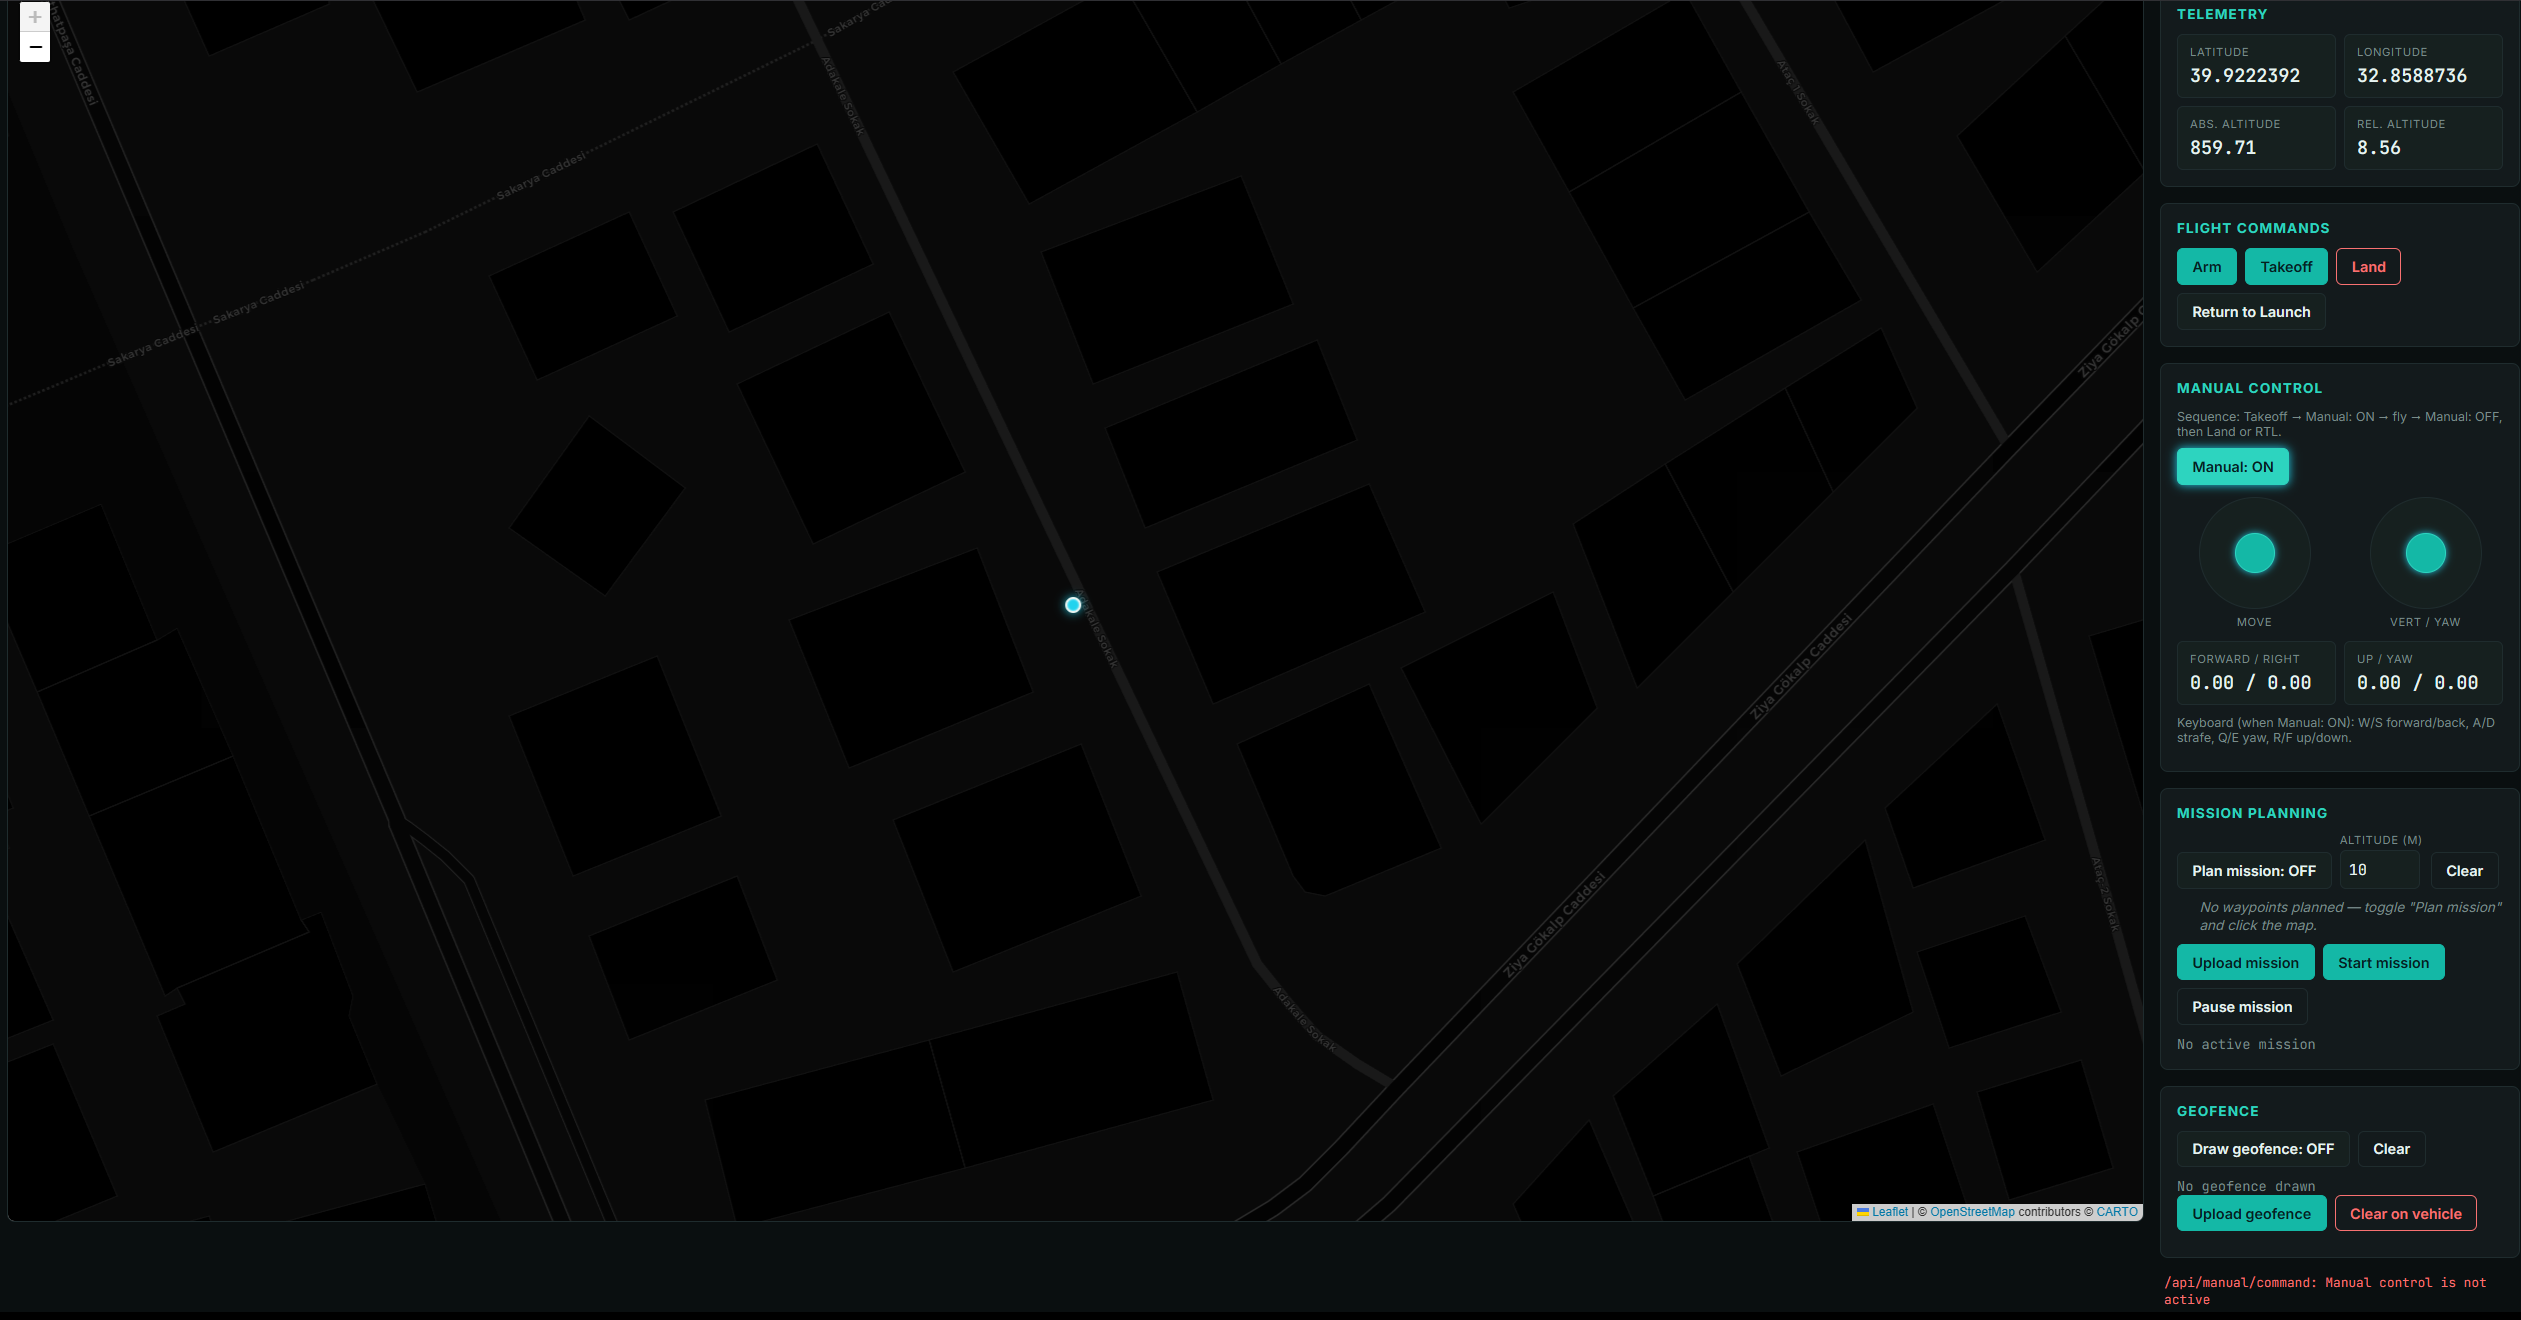
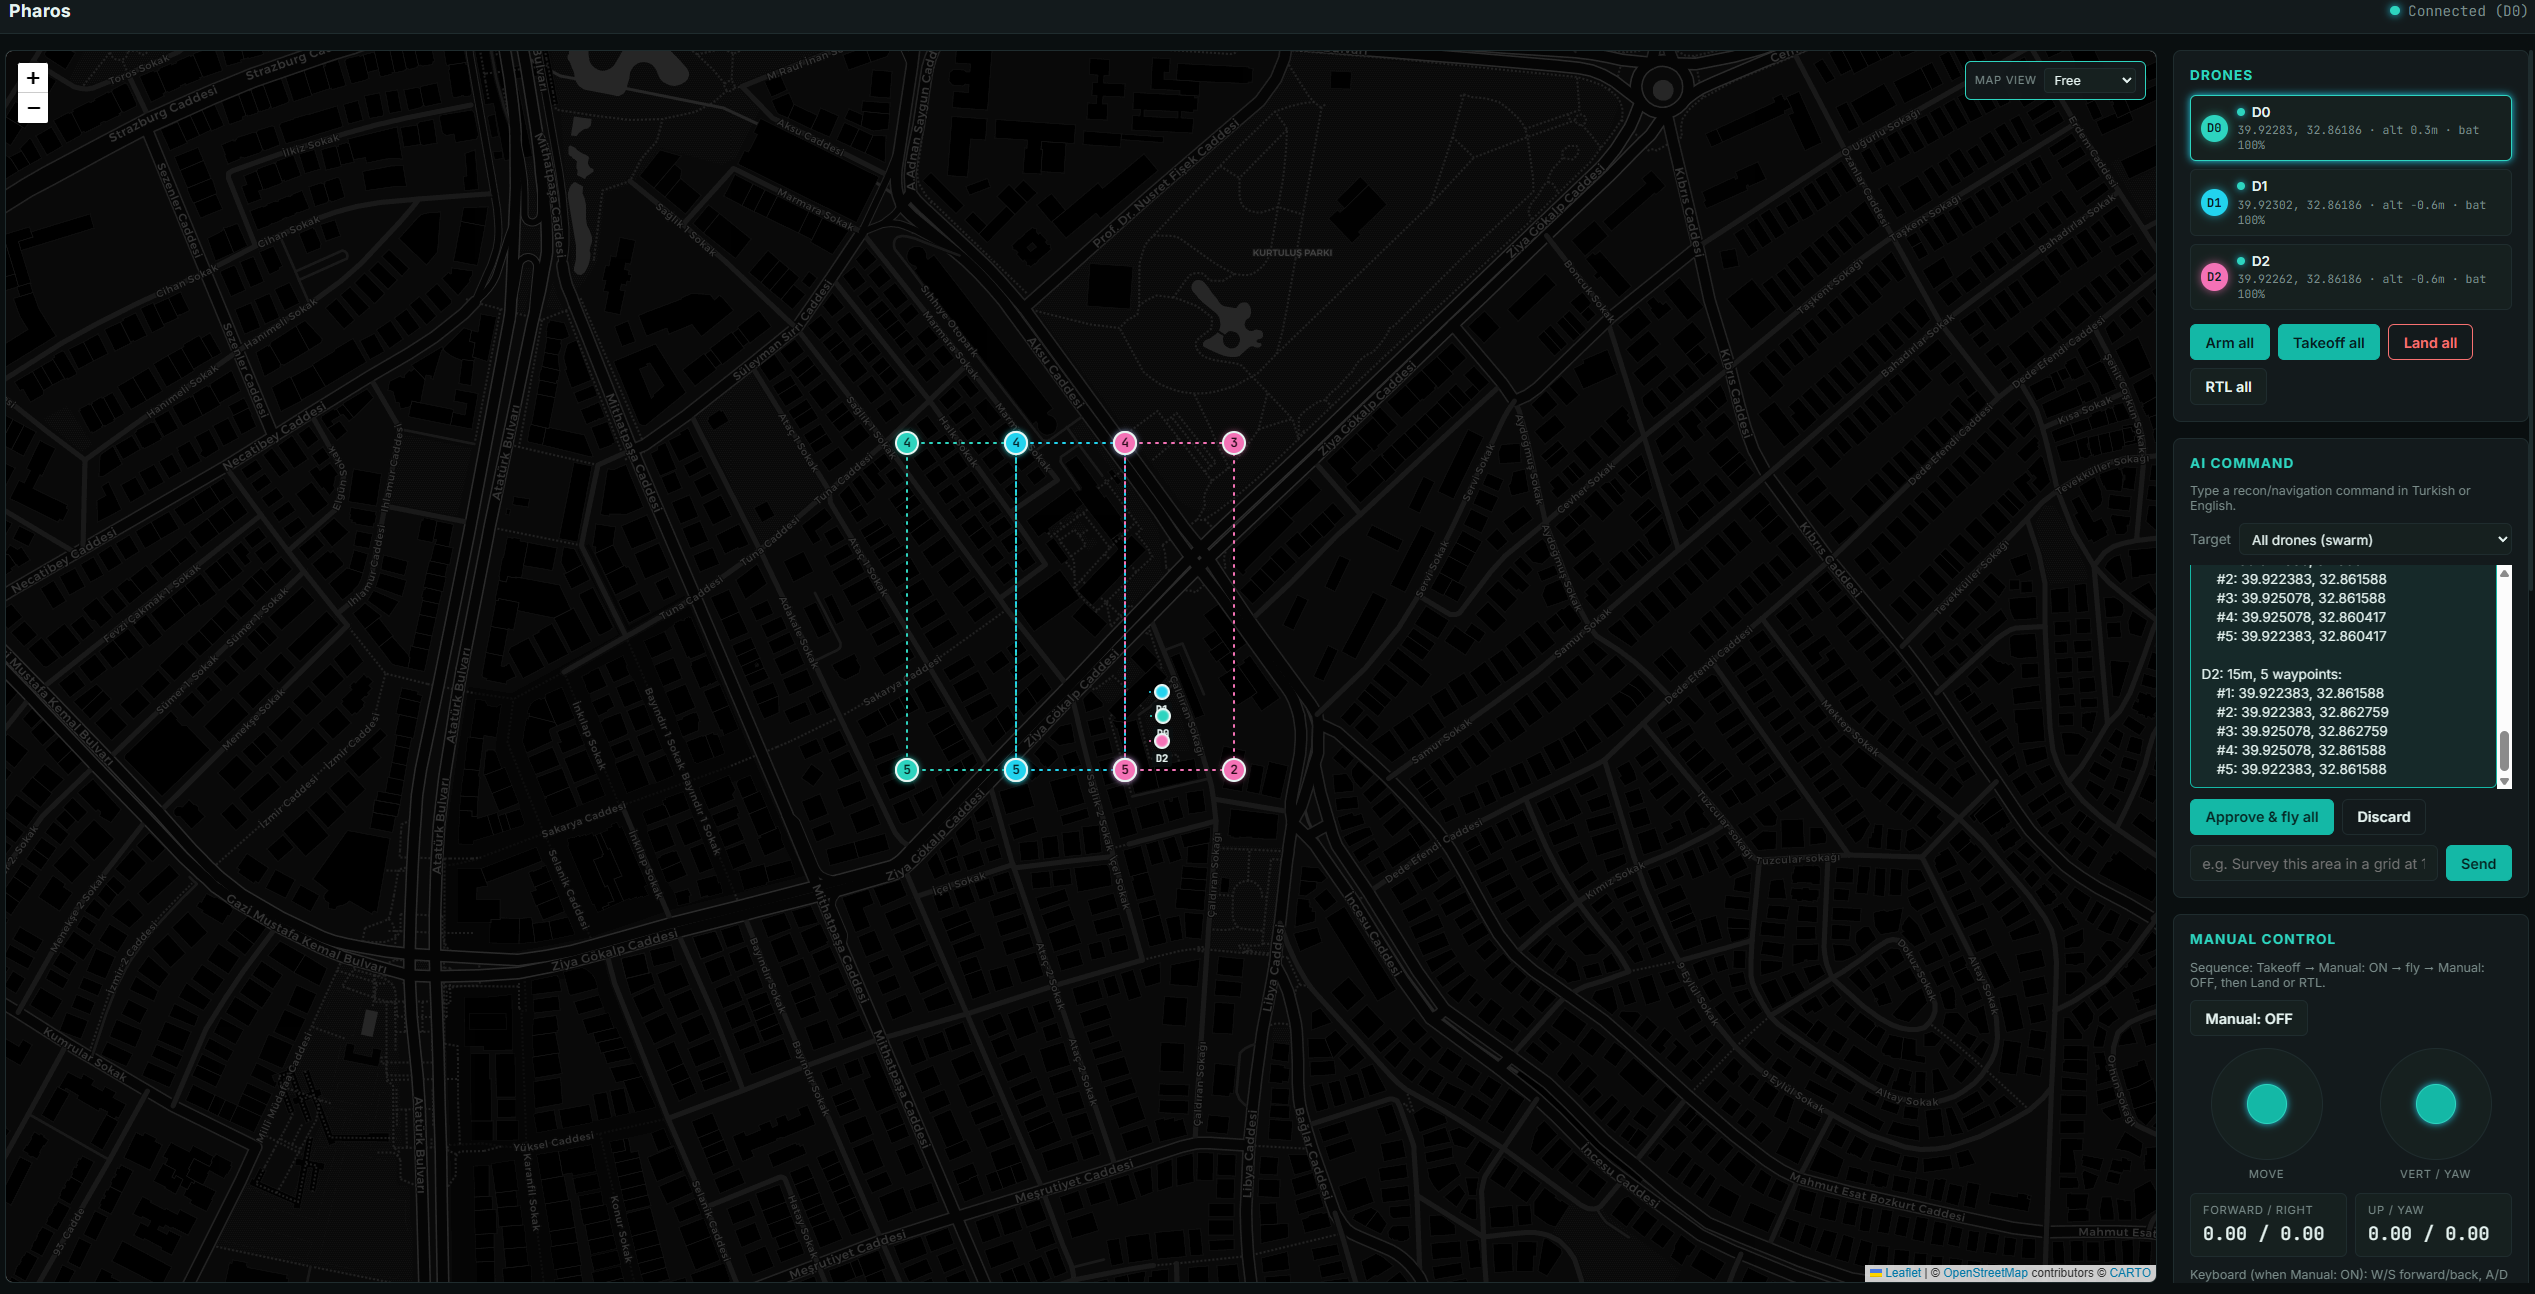
docs: rewrite README with current features, screenshots; add httpx to requirements

diff --git a/README.md b/README.md
@@ -1,120 +1,151 @@
 <p align="center">
-  <img src="docs/logo.png" alt="Pharos logo" width="220">
+  <img src="docs/logo.png" alt="Pharos logo" width="180">
 </p>
 
 <h1 align="center">Pharos</h1>
 
 <p align="center">
-  A web-based ground control station for PX4 drones — live telemetry, manual
-  flight, mission planning, and geofencing from a browser.
+  A web-based Ground Control Station for PX4 drones — live multi-drone telemetry,
+  manual flight, autonomous mission planning, geofencing, and a natural-language
+  AI command layer with mandatory human approval, running fully in simulation.
 </p>
 
-<p align="center">
-  <img src="docs/screenshot-dashboard.png" alt="Pharos dashboard screenshot" width="100%">
-</p>
+---
 
-<p align="center"><em>Live dashboard: dark map with a tracked drone position, telemetry readout, flight commands, manual control joysticks, mission planning, and geofencing — all in one view.</em></p>
+![Swarm scan preview](docs/screenshot-swarm.png)
+*AI-planned swarm scan: three drones assigned non-overlapping lawnmower sectors over a named location, previewed on the map before the operator approves and launches.*
 
 ---
 
 ## Features
 
-**Live telemetry**
-- Real-time position, altitude, and connection status streamed over a WebSocket
-- Dark-themed live map (Leaflet) with a following drone marker and flight trail
+### Live telemetry and map
 
-**Flight commands**
-- Arm, Takeoff, Land, and Return to Launch from the dashboard
+- Position, altitude (absolute and relative), heading, ground speed, and battery streamed in real time over a WebSocket connection
+- Dark Leaflet map (CARTO dark tiles) with per-drone markers and color-coded flight trails for all three drones simultaneously
+- Rolling telemetry charts: relative altitude, ground speed, and battery percentage (Chart.js)
+- Five map-follow modes via a floating overlay control: **Follow D0 / D1 / D2** (pan only, no zoom change), **Follow all** (auto-fits all drones in view with `fitBounds`, throttled to 1 Hz), and **Free** (map stays exactly where you leave it)
 
-**Manual flight control**
-- On-screen joysticks (move + vertical/yaw) and keyboard control (W/A/S/D, Q/E, R/F)
-- Implemented via MAVSDK offboard velocity setpoints, streamed continuously to PX4
-- Move joystick is map-relative (north/east), automatically rotated into the
-  drone's body frame using its live compass heading
+### Multi-drone swarm
 
-**Autonomous mission planning**
-- Click waypoints directly on the map to build a route
-- Upload and run the mission on PX4, with live "Waypoint X / Y" progress
-  reported back to the dashboard
+- Three simultaneous PX4 SITL instances (D0, D1, D2) connected over separate UDP ports (14540/14541/14542)
+- Per-drone telemetry cards with status indicators; click any drone to select it for single-drone panels
+- Swarm-level commands: Arm all, Takeoff all, Land all, RTL all (fan-out to all drones in one click)
 
-**Geofencing**
+### AI command layer
+
+- Type a reconnaissance or navigation task in Turkish or English; the backend sends it to the DeepSeek LLM
+- For swarm tasks, the LLM returns a high-level area specification (pattern, size, altitude, optional place name); Python then deterministically divides the area into non-overlapping vertical strips — one per drone — and generates a boustrophedon (lawnmower) scan pattern for each strip, guaranteeing no sector overlap by construction
+- For single-drone tasks, the LLM generates a structured waypoint route
+- Named locations (e.g. "Kurtulus Parki Ankara") are resolved to GPS coordinates via OpenStreetMap Nominatim before sector allocation, so scans cover the place you actually named
+- The proposed plan is drawn on the map as a preview. **No drone moves until the operator explicitly clicks "Approve & fly"** — the approval step is mandatory and cannot be bypassed from the UI
+
+### Manual flight control
+
+- On-screen joysticks (move + vertical/yaw) and full keyboard control: W/S forward/back, A/D strafe, Q/E yaw, R/F up/down
+- Implemented via MAVSDK offboard velocity setpoints, sent at 10 Hz while active
+- The move joystick is map-relative (up = north, right = east), automatically rotated into the drone's body frame using its live compass heading
+
+### Autonomous mission planning
+
+- Click waypoints directly on the map to build a route; set flight altitude, upload to PX4, start/pause
+- Live mission progress ("Waypoint 3 / 7") reported back to the dashboard and highlighted on the map
+
+### Geofence
+
 - Draw an inclusion-boundary polygon on the map
-- Upload it to PX4 as an enforced geofence (breach action: Hold)
+- Upload it to PX4 as an enforced geofence; the vehicle will hold at the boundary if breached
 - Clear the fence from the vehicle at any time
+
+---
+
+## Safety boundary
+
+The AI command layer is scoped exclusively to **navigation and reconnaissance tasks**: area scans, waypoint routes, patrol loops, and loiter. Both the single-drone and swarm system prompts explicitly prohibit and will refuse any request related to weapons, targeting, strikes, offensive interception, or engagement of other aircraft or vehicles. A refused request returns a structured error explaining what was rejected; no plan is generated and no drone moves.
+
+This constraint is enforced at the system-prompt level for every API call and is not configurable at runtime.
 
 ---
 
 ## Architecture
 
 ```
-PX4 SITL (firmware)
-      │  MAVLink / UDP (14540)
+PX4 SITL × 3 (SIH firmware, headless)
+      │  MAVLink / UDP  (ports 14540 · 14541 · 14542)
       ▼
-MAVSDK-Python  ──  shared connection
+MAVSDK-Python  (one connection + telemetry/command tasks per drone)
       │
       ▼
-FastAPI backend (server.py)
-      │  WebSocket (telemetry/state)  +  REST (commands)
+FastAPI backend  (server.py)
+      │  WebSocket ── telemetry broadcast (all drones, tagged by drone_id)
+      │  REST ── /api/<drone_id>/...  and  /api/all/...  (commands)
+      │  REST ── /api/plan  (AI mission planning, swarm sector allocation)
       ▼
-Browser frontend (Leaflet + vanilla JS)
+Browser frontend  (vanilla JS + Leaflet)
+      │  DeepSeek API  (natural-language → area spec / waypoint plan)
+      │  Nominatim     (place name → GPS coordinates)
 ```
 
-The backend maintains a MAVSDK connection per drone (3 by default, ports
-14540/14541/14542) and runs five background tasks per drone (telemetry,
-mission progress, heading, ground speed, battery), broadcasting each drone's
-state — tagged with a `drone_id` — to all connected browser clients over a
-single WebSocket. Flight commands, mission uploads, geofence uploads, and
-manual control setpoints are sent as REST calls to `/api/<drone_id>/...`,
-translating directly into MAVSDK action/mission/offboard/geofence calls.
-`/api/all/...` endpoints fan a command out to every connected drone. The
-frontend shows every drone on the map; single-drone panels (telemetry,
-charts, manual control, mission planning, geofence) operate on whichever
-drone is currently selected in the Drones panel.
+The backend runs five background telemetry tasks per drone and broadcasts each drone's state — tagged with `drone_id` — to all WebSocket clients. Flight commands, mission uploads, geofence operations, and manual control setpoints are sent as REST calls and translate directly to MAVSDK calls. The `/api/all/...` endpoints fan a command out to every drone and collect per-drone results.
 
 ---
 
 ## Tech stack
 
-- **Backend:** Python, [FastAPI](https://fastapi.tiangolo.com/), [MAVSDK-Python](https://mavsdk.mavlink.io/)
-- **Realtime transport:** WebSocket (telemetry) + REST (commands)
-- **Frontend:** Vanilla JavaScript, [Leaflet](https://leafletjs.com/) (dark CARTO tiles)
-- **Simulation:** [PX4 SITL](https://docs.px4.io/main/en/simulation/) (SIH backend)
+| Layer | Technology |
+|---|---|
+| Simulation | PX4 SITL (SIH firmware) |
+| Drone SDK | MAVSDK-Python |
+| Backend | Python, FastAPI, uvicorn |
+| Realtime transport | WebSocket (telemetry) + REST (commands) |
+| Frontend | Vanilla JavaScript, Leaflet (CARTO dark tiles) |
+| Charts | Chart.js |
+| AI planner | DeepSeek LLM (via OpenAI-compatible API) |
+| Geocoding | OpenStreetMap Nominatim |
 
 ---
 
 ## Getting started
 
-Targets **PX4 SITL** (simulation) — no real hardware required. Developed and
-tested on **WSL2 / Ubuntu**.
+Developed and tested on **WSL2 / Ubuntu**. Requires a pre-built PX4-Autopilot tree and a DeepSeek API key.
 
-### 1. Backend
+### 1. Clone and install
 
 ```bash
-cd ~/pharos
+git clone https://github.com/efekrkyn/pharos.git
+cd pharos
 python3 -m venv .venv
 source .venv/bin/activate
 pip install -r requirements.txt
 ```
 
-### 2. PX4 SITL
+### 2. Configure the API key
 
-Clone and build [PX4-Autopilot](https://github.com/PX4/PX4-Autopilot) following
-the [official setup guide](https://docs.px4.io/main/en/dev_setup/dev_env_linux_ubuntu.html).
-Then run the headless SIH simulator (no Gazebo/Java required), set to start at
-TED University, Ankara — matching the dashboard's default map view:
+```bash
+cp .env.example .env
+# Edit .env and set DEEPSEEK_API_KEY=<your key>
+```
+
+### 3. Build PX4 SITL (first time only)
+
+Clone and build [PX4-Autopilot](https://github.com/PX4/PX4-Autopilot) following the
+[official Ubuntu setup guide](https://docs.px4.io/main/en/dev_setup/dev_env_linux_ubuntu.html),
+then build the SIH target:
 
 ```bash
 cd ~/PX4-Autopilot
-PX4_HOME_LAT=39.9228214 PX4_HOME_LON=32.8618589 PX4_HOME_ALT=850 \
-  make px4_sitl sihsim_quadx
+make px4_sitl sihsim_quadx
 ```
 
-PX4 SITL streams MAVLink over UDP to `localhost:14540`, which the backend
-connects to automatically.
+### 4. Launch the three SITL instances
 
-### 3. Run Pharos
+```bash
+~/pharos/scripts/start_swarm.sh
+```
 
-With PX4 SITL running, in a second terminal:
+This starts three headless PX4 processes (D0 at the default home position, D1 and D2 with small latitude offsets so they don't overlap) and logs to `scripts/logs/`. Wait for EKF and GPS lock in the logs before proceeding. Stop everything with `scripts/stop_swarm.sh`.
+
+### 5. Start the backend
 
 ```bash
 cd ~/pharos/backend
@@ -122,17 +153,17 @@ source ../.venv/bin/activate
 uvicorn server:app --reload --port 8000
 ```
 
-Open **http://localhost:8000** in your browser. Once PX4 reports a connection,
-the dashboard will go live: telemetry starts updating, and flight/mission/
-geofence/manual controls become available.
+### 6. Open the GCS
+
+Navigate to **http://localhost:8000**. Once each SITL instance reports a MAVLink connection, the dashboard goes live: telemetry updates, the map centers on TED University Ankara (the SITL home location), and all controls become available.
 
 ---
 
-## Status / roadmap
+## Interface
 
-Pharos is built incrementally as a learning and portfolio project. Possible
-next steps:
+![Pharos dashboard](docs/screenshot-dashboard.png)
+*Main dashboard: Leaflet map with drone markers and trails (left), and a scrollable panel with drone status, AI command, manual control, telemetry, flight commands, mission planning, geofence, and charts (right).*
 
-- Flight-log analysis and replay
-- ~~Multi-drone / swarm support~~ (done — see `scripts/start_swarm.sh`)
-- ~~Telemetry charts (altitude, speed, battery over time)~~ (done)
+---
+
+> **Simulation only.** Pharos has been built and tested exclusively against PX4 SITL. It has not been tested with or connected to real flight hardware. It is a learning and portfolio project.